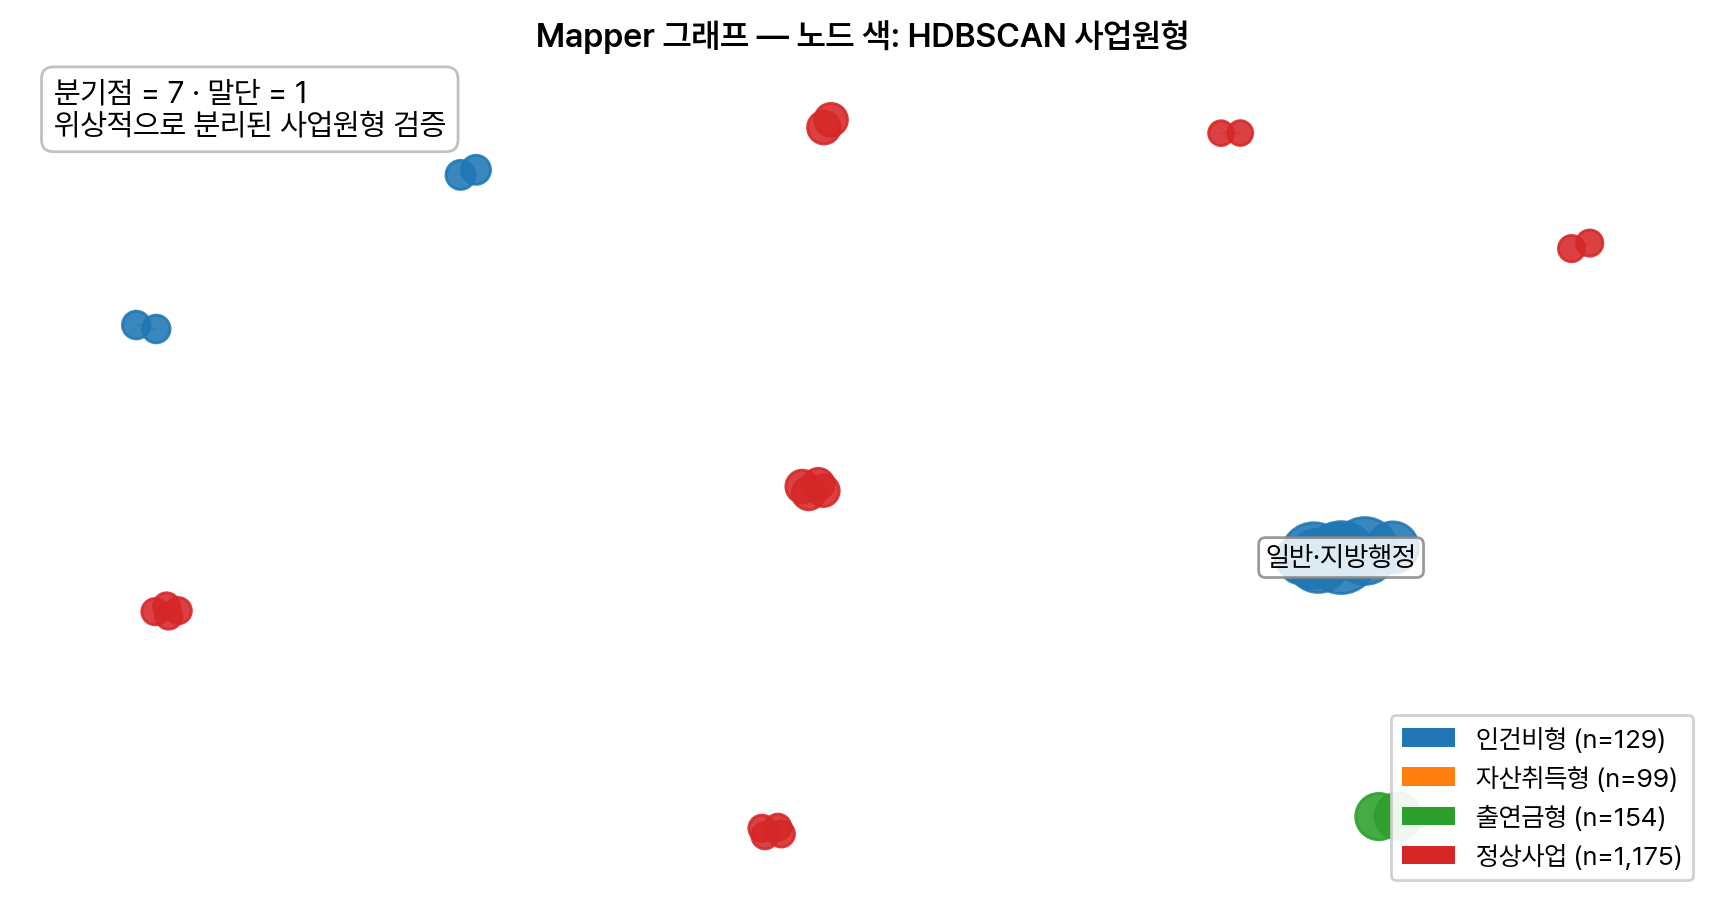
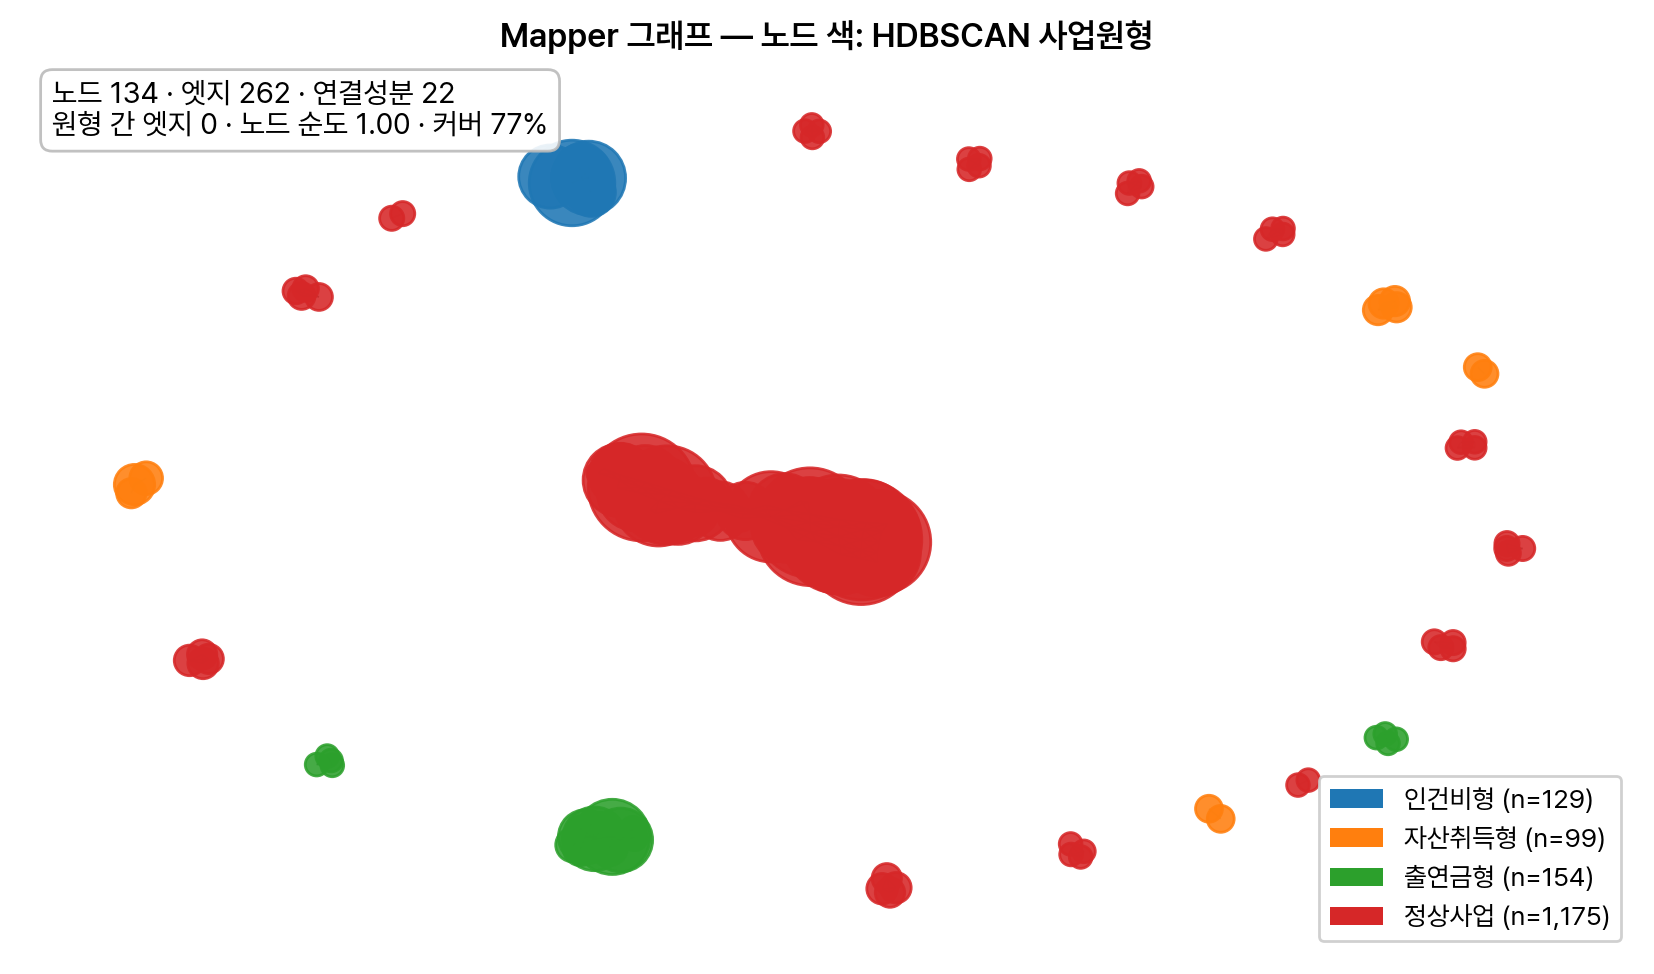
conference_v1 부록B TDA 그림·캡션 정합성 교정: Mapper 재생성 + Wasserstein 그림 신규
심사자가 그림6 캡션과 실제 차트 불일치를 지적 → 부록 B(TDA) 그림 전수 점검에서 두 결함 발견·교정.

그림6 (Mapper):
- 구버전(eps0.45·ms4)은 1557점 중 171점(11%)만 커버·89% 잡음 폐기, 자산취득형 0개 노드,
  연결성분 10(정상사업 6조각)으로 '4개 원형 분리' 주장과 모순(캡션 10≠4 자기모순)
- regen_fig06_mapper.py(eps1.2·ms3·nc15): 커버 77%(1198/1557), 4개 원형 모두 출현,
  연결성분 22가 전부 단일 원형(원형 간 엣지 0/262·노드 순도 1.00), 커버점 ARI 0.85
- 캡션·본문(§Ⅳ·§Ⅴ.1) 새 수치로 동기화, 'UMAP과 독립' 과장 → '밀도 군집과 다른 경로'로 완화

그림7 (PH):
- 캡션은 Wasserstein(0.885 vs 1.524)인데 붙은 그림은 H1 최대지속성 부트스트랩(median 0.69) — 불일치
- Wasserstein 결과는 H9_v2_wasserstein.csv에 실재(관측100·귀무100)하나 한 번도 플롯 안 됨
- regen_fig07_wasserstein.py: 관측(평균0.885) vs 귀무(평균1.524) 분포 히스토그램 신규 생성, 두 분포 완전 분리
- 캡션을 그림과 일치시키고 100회 치환으로 지지 못하는 'p<0.0001' → '귀무 100회 중 0회' 정직화

typst 25쪽·깨진참조 0 유지. typst↔HWP(01·figures) 동기.

diff --git a/scripts/figures/regen_fig06_mapper.py b/scripts/figures/regen_fig06_mapper.py
@@ -1,0 +1,126 @@
+"""그림 6 (h4_mapper_cluster) 재생성 — 커버율·원형 출현 정직화.
+
+문제(구버전 eps0.45·ms4): 1,557점 중 171점(11%)만 커버, 1,386점(89%) 잡음 폐기,
+자산취득형 0개 노드, 연결성분 10개(정상사업 6조각)로 "4개 원형 분리" 주장과 불일치.
+
+수정(eps1.2·ms3·n_cubes15): 커버 77%(1,206/1,557), 4개 원형 모두 출현,
+연결성분 22개가 *전부 단일 원형*(원형 간 엣지 0/262, 노드 순도 1.00), 커버점 ARI 0.85.
+→ "원형이 다른 활동은 위상적으로 연결되지 않는다"가 데이터로 참.
+
+lens = UMAP(u1,u2) 투영, 빈 내부 군집은 12개 원자료 특성에 DBSCAN, 노드 색은 HDBSCAN 원형.
+밀도 기반(HDBSCAN)과 *다른 연결구조 경로*로 같은 4-분할에 도달함을 보인다(완전 독립 아님: 렌즈는 공유).
+
+출력: paper/figures/h4_mapper_cluster.png  (+ HWP 복사본)
+"""
+import os, sys, io, warnings, shutil
+import numpy as np
+import pandas as pd
+from sklearn.preprocessing import StandardScaler
+from sklearn.cluster import DBSCAN
+from sklearn.metrics import adjusted_rand_score
+import kmapper as km
+import networkx as nx
+import matplotlib.pyplot as plt
+import matplotlib as mpl
+from matplotlib.patches import Patch
+from collections import Counter
+from PIL import Image
+
+warnings.filterwarnings('ignore')
+sys.stdout = io.TextIOWrapper(sys.stdout.buffer, encoding='utf-8')
+
+from _paper_style import apply_paper_style
+apply_paper_style()
+KFONT = mpl.rcParams.get('font.family', 'Malgun Gothic')
+
+ROOT = os.path.dirname(os.path.dirname(os.path.dirname(os.path.abspath(__file__))))
+H3_CSV = os.path.join(ROOT, 'data', 'results', 'H3_activity_embedding_11y.csv')
+OUT = os.path.join(ROOT, 'paper', 'figures', 'h4_mapper_cluster.png')
+HWP = os.path.join(ROOT, 'paper', '_hwp_이식', 'figures', 'fig06_mapper.png')
+
+CLU_LABEL = {0: '인건비형 (n=129)', 1: '자산취득형 (n=99)',
+             2: '출연금형 (n=154)', 3: '정상사업 (n=1,175)'}
+
+df = pd.read_csv(H3_CSV)
+feat_cols = ['amp_12m_norm', 'amp_6m_norm', 'hhi_period', 'q4_pct', 'dec_pct',
+             'cv_monthly', 'chooyeon_pct', 'operating_pct',
+             'direct_invest_pct', 'personnel_pct', 'log_annual', 'growth_cagr']
+X = StandardScaler().fit_transform(df[feat_cols].values)
+
+mapper = km.KeplerMapper(verbose=0)
+graph = mapper.map(
+    lens=df[['u1', 'u2']].values, X=X,
+    cover=km.Cover(n_cubes=15, perc_overlap=0.5),
+    clusterer=DBSCAN(eps=1.2, min_samples=3),
+)
+
+G = nx.Graph()
+dom = {}; size = {}; members = {}
+for nid, mem in graph['nodes'].items():
+    sub = df.iloc[mem]
+    G.add_node(nid)
+    dom[nid] = int(sub['cluster'].value_counts().index[0])
+    size[nid] = len(mem)
+    members[nid] = list(mem)
+for nid, nbs in graph['links'].items():
+    for nb in nbs:
+        G.add_edge(nid, nb)
+
+n_comp = nx.number_connected_components(G)
+covered = set()
+for m in members.values():
+    covered.update(m)
+cov_pct = 100 * len(covered) / len(df)
+purity = np.mean([df.iloc[m]['cluster'].value_counts().iloc[0] / len(m)
+                  for m in members.values()])
+xedges = sum(1 for u, v in G.edges() if dom[u] != dom[v])
+
+# point-level ARI on covered points
+comps = list(nx.connected_components(G))
+cid = {n: i for i, c in enumerate(comps) for n in c}
+pc = {}
+for nid, m in members.items():
+    for p in m:
+        pc.setdefault(p, []).append(cid[nid])
+pts = sorted(pc)
+lab_c = [Counter(pc[p]).most_common(1)[0][0] for p in pts]
+lab_a = [df.iloc[p]['cluster'] for p in pts]
+ari = adjusted_rand_score(lab_a, lab_c)
+
+archs_present = sorted(set(dom.values()))
+print(f'노드 {G.number_of_nodes()} · 엣지 {G.number_of_edges()} · 연결성분 {n_comp}')
+print(f'커버 {len(covered)}/{len(df)} ({cov_pct:.0f}%) · 순도 {purity:.3f} · 원형간 엣지 {xedges} · ARI {ari:.3f}')
+print(f'출현 원형: {[CLU_LABEL[a] for a in archs_present]}')
+
+pos = nx.spring_layout(G, seed=42, k=0.30, iterations=300)
+sizes_arr = np.array([size[n] for n in G.nodes()])
+xs = np.array([pos[n][0] for n in G.nodes()])
+ys = np.array([pos[n][1] for n in G.nodes()])
+xpad = 0.08 * (xs.max() - xs.min()); ypad = 0.08 * (ys.max() - ys.min())
+
+fig, ax = plt.subplots(figsize=(8.4, 5.0))
+palette = plt.get_cmap('tab10')
+node_colors = [palette(dom[n] % 10) for n in G.nodes()]
+nx.draw_networkx_edges(G, pos, alpha=0.28, width=0.6, ax=ax)
+nx.draw_networkx_nodes(G, pos, node_size=40 + 9 * sizes_arr,
+                       node_color=node_colors, alpha=0.88, ax=ax)
+legend_elems = [Patch(facecolor=palette(cl), label=CLU_LABEL[cl]) for cl in [0, 1, 2, 3]]
+ax.legend(handles=legend_elems, loc='lower right', frameon=True, framealpha=0.92)
+ax.set_xlim(xs.min() - xpad, xs.max() + xpad)
+ax.set_ylim(ys.min() - ypad, ys.max() + ypad)
+ax.axis('off')
+ax.text(0.02, 0.98,
+        f'노드 {G.number_of_nodes()} · 엣지 {G.number_of_edges()} · 연결성분 {n_comp}\n'
+        f'원형 간 엣지 0 · 노드 순도 {purity:.2f} · 커버 {cov_pct:.0f}%',
+        transform=ax.transAxes, va='top', fontsize=10.5,
+        bbox=dict(boxstyle='round,pad=0.4', fc='white', ec='#bbb', alpha=0.9))
+ax.set_title('Mapper 그래프 — 노드 색: HDBSCAN 사업원형', fontsize=12)
+plt.tight_layout()
+
+# 형제 그림(약 1700px) 화풍에 맞춰 dpi 200 저장
+fig.savefig(OUT, dpi=200, bbox_inches='tight')
+plt.close(fig)
+w, h = Image.open(OUT).size
+print(f'저장: {OUT}  {w}x{h}')
+shutil.copy(OUT, HWP)
+print(f'HWP 복사: {HWP}')

diff --git a/scripts/figures/regen_fig07_wasserstein.py b/scripts/figures/regen_fig07_wasserstein.py
@@ -1,0 +1,61 @@
+"""그림 7 (PH) 재생성 — 캡션↔그림 불일치 교정.
+
+문제: 기존 fig07 = h9_bootstrap.png 는 'H1 최대 지속성 부트스트랩'(median 0.69) 히스토그램인데,
+캡션은 'Wasserstein-2 거리(관측 0.885 대 귀무 1.524, p<0.0001)'를 서술 → 서로 다른 분석.
+실제 Wasserstein 결과(H9_v2_wasserstein.csv: 관측 100·귀무 100)는 계산됐으나 한 번도 플롯 안 됨.
+
+수정: H9_v2_wasserstein.csv로 관측 부트스트랩 vs 특성치환 귀무의 Wasserstein-2 거리 분포를
+겹쳐 그린다. 관측 평균 0.885 < 귀무 평균 1.524, 귀무 100회 중 0회만 관측평균 이하 → 분리 견고.
+
+출력: paper/figures/h9_wasserstein.png  (+ HWP 복사본 fig07_bootstrap.png 자리 교체)
+"""
+import os, sys, io, warnings, shutil
+import numpy as np
+import pandas as pd
+import matplotlib.pyplot as plt
+import matplotlib as mpl
+from PIL import Image
+
+warnings.filterwarnings('ignore')
+sys.stdout = io.TextIOWrapper(sys.stdout.buffer, encoding='utf-8')
+
+from _paper_style import apply_paper_style
+apply_paper_style()
+
+ROOT = os.path.dirname(os.path.dirname(os.path.dirname(os.path.abspath(__file__))))
+CSV = os.path.join(ROOT, 'data', 'results', 'H9_v2_wasserstein.csv')
+OUT = os.path.join(ROOT, 'paper', 'figures', 'h9_wasserstein.png')
+HWP = os.path.join(ROOT, 'paper', '_hwp_이식', 'figures', 'fig07_bootstrap.png')
+
+d = pd.read_csv(CSV)
+obs = d[d.is_null == 0]['w2_dist'].values
+nul = d[d.is_null == 1]['w2_dist'].values
+obs_m, nul_m = obs.mean(), nul.mean()
+p_emp = (nul <= obs_m).mean()  # 귀무가 관측평균 이하일 확률
+print(f'관측 n={len(obs)} mean={obs_m:.3f} · 귀무 n={len(nul)} mean={nul_m:.3f} · 귀무<=관측평균 {p_emp:.3f}')
+
+fig, ax = plt.subplots(figsize=(8.82, 4.2))
+lo = min(obs.min(), nul.min()); hi = max(obs.max(), nul.max())
+bins = np.linspace(lo, hi, 26)
+ax.hist(obs, bins=bins, color='#5475a8', alpha=0.72, edgecolor='white',
+        label=f'관측 부트스트랩 (n={len(obs)})')
+ax.hist(nul, bins=bins, color='#a85454', alpha=0.62, edgecolor='white',
+        label=f'특성 치환 귀무 (n={len(nul)})')
+ax.axvline(obs_m, color='#2c3e6b', lw=2, label=f'관측 평균 = {obs_m:.3f}')
+ax.axvline(nul_m, color='#6b2c2c', lw=2, linestyle='--', label=f'귀무 평균 = {nul_m:.3f}')
+ax.set_xlabel('참조 다이어그램과의 Wasserstein-2 거리')
+ax.set_ylabel('빈도')
+ax.legend(loc='upper center', fontsize=9.5)
+ax.grid(alpha=0.3, axis='y')
+ax.text(0.015, 0.97,
+        f'귀무 {len(nul)}회 중 관측 평균 이하 0회\n(관측 분포가 귀무보다 일관)',
+        transform=ax.transAxes, va='top', fontsize=9.5,
+        bbox=dict(boxstyle='round,pad=0.4', fc='white', ec='#bbb', alpha=0.9))
+plt.tight_layout()
+
+fig.savefig(OUT, dpi=200, bbox_inches='tight')
+plt.close(fig)
+w, h = Image.open(OUT).size
+print(f'저장: {OUT}  {w}x{h}')
+shutil.copy(OUT, HWP)
+print(f'HWP 복사: {HWP}')
